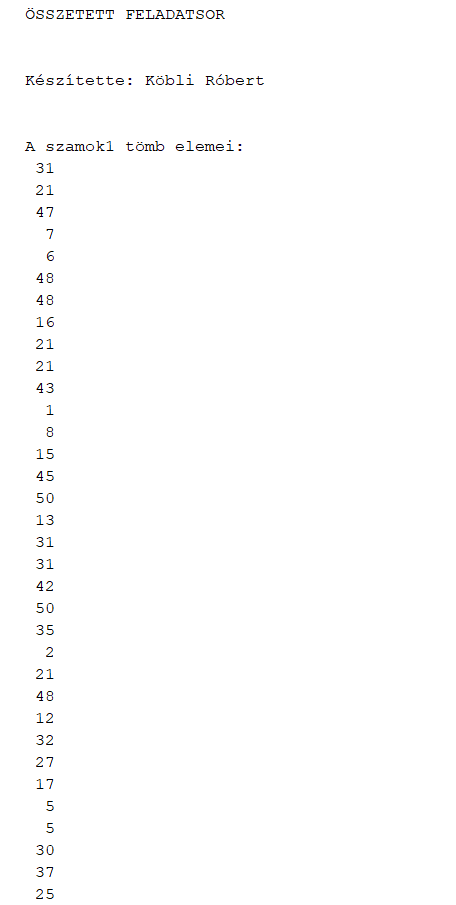
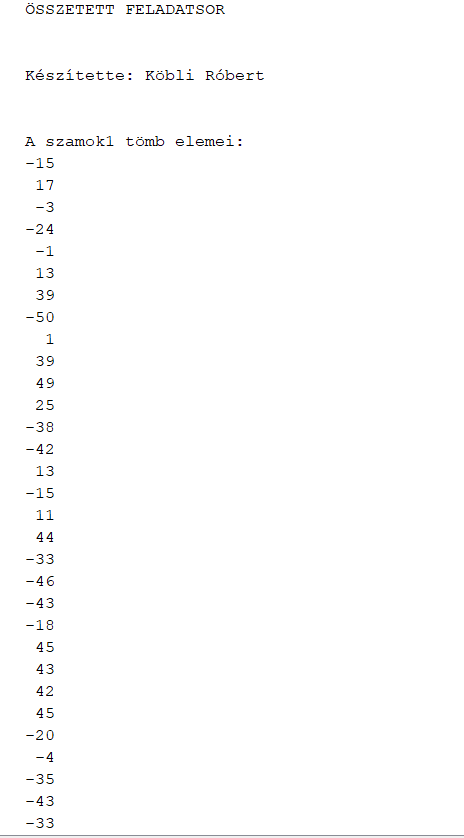
Add files via upload

diff --git a/OsszetettFeladat.java b/OsszetettFeladat.java
@@ -5,8 +5,6 @@
  */
 package osszetettfeladat;
 
-import java.util.Scanner;
-
 /**
  *
  * @author Robi
@@ -17,83 +15,7 @@ public class OsszetettFeladat {
      * @param args the command line arguments
      */
     public static void main(String[] args) {
-        System.out.println("\n ÖSSZETETT FELADATSOR \n");
-        System.out.println("\n Készítette: Köbli Róbert \n");
-        
-        Scanner be=new Scanner(System.in);
-        char valasz=0;
-        do{
-        //1. Hozz létre két tömböt: szamok1, szamok2 néven!
-        //2. A tömbök elemszámát is véletlenszám generátorral állítsd elő 10 és 30 között.
-        int elemSzam=(int)(Math.random()*10)+30;
-        int szamok1[]=new int[elemSzam];
-        int szamok2[]=new int[elemSzam];
-        
-        //3. Az elemek a -50 és +50 értéktartományba essenek.
-        for (int i = 0; i < elemSzam; i++) {
-            szamok1[i]=(int)(Math.random()*-50)+50;
-            szamok2[i]=(int)(Math.random()*-50)+50;
-        }
-        //4. Írasd ki a két tömböt egy-egy sorban ügyelve, hogy az elemek helyiérték szerint egymás alá kerüljenek.
-        System.out.println("\n A szamok1 tömb elemei: ");
-        for (int i = 0; i < elemSzam; i++) {
-            System.out.println(String.format("%,4d", szamok1[i])+" ");
-        }
-        System.out.println("\n A szamok2 tömb elemei: ");
-        for (int i = 0; i < elemSzam; i++) {
-            System.out.println(String.format("%,4d", szamok2[i])+" ");
-        }
-        //5. Helyezd át a két tömb öttel osztható páros számait egy ujTomb nevű tömbbe, majd írasd ki sorbarendezve.
-        int ujTomb[]=new int[elemSzam];
-        int ujTombDb=0;
-        for (int i = 0; i < elemSzam; i++) {
-            if(szamok1[i]%5==0){
-                ujTomb[ujTombDb++]=szamok1[i];
-            }
-            if(szamok2[i]%5==0){
-                ujTomb[ujTombDb++]=szamok2[i];
-            }
-        }
-        System.out.println("\n Az ujTomb elemei: \n");
-        for (int i = 0; i < ujTombDb; i++) {
-            System.out.println(String.format("%,4d", ujTomb[i])+" ");
-        }
-        
-        //6. Írasd ki a legkisebb és legnagyobb számot az ujTomb-ből.
-        int legnagyobb = ujTomb[0];
-        int legkisebb = ujTomb[0];
-        
-        for (int i = 0; i < ujTombDb; i++) {
-            if (ujTomb[i] > legnagyobb) {
-                legnagyobb = ujTomb[i];
-            }
-        }
-        System.out.println("Az ujTomb legnagyobb száma: "+legnagyobb);
-        
-        for (int i = 0; i < ujTombDb; i++) {
-            if (ujTomb[i] < legkisebb) {
-                legkisebb = ujTomb[i];
-            }
-        } 
-        System.out.println("Az ujTomb legkisebb száma: "+legkisebb);
-        
-        //7. Írasd ki, többszöröse-e a legnagyobb szám a legkisebbnek?
-         if (legnagyobb % legkisebb == 0) {
-            System.out.println("\n Az ujTomb legnagyobb eleme a legkisebb többszöröse");
-        }
-        else {
-            System.out.println("\n Az ujTomb legnagyobb eleme nem többszöröse a legkisebbnek");
-        }
-        //8. Írasd ki, hogy 0-át tartalmaz-e az ujTomb?
-            for (int i = 0; i < ujTombDb; i++) {
-                if(ujTomb[i]==0) System.out.println("Az ujTomb tartalmaz 0-t");
-                else System.out.println("Az ujTomb nem tartalmaz 0-t");
-                break;
-            }
-       //9. Kérdezd meg, szeretné-e újrafuttatni a felhasználó a programot (i/n)! Ha igen, hajrá...
-            System.out.println("Újra lefuttatja a programot? i/n: ");
-            valasz=be.next().charAt(0);
-        }while((valasz=='i') || (valasz=='I'));
+        // TODO code application logic here
     }
     
 }
